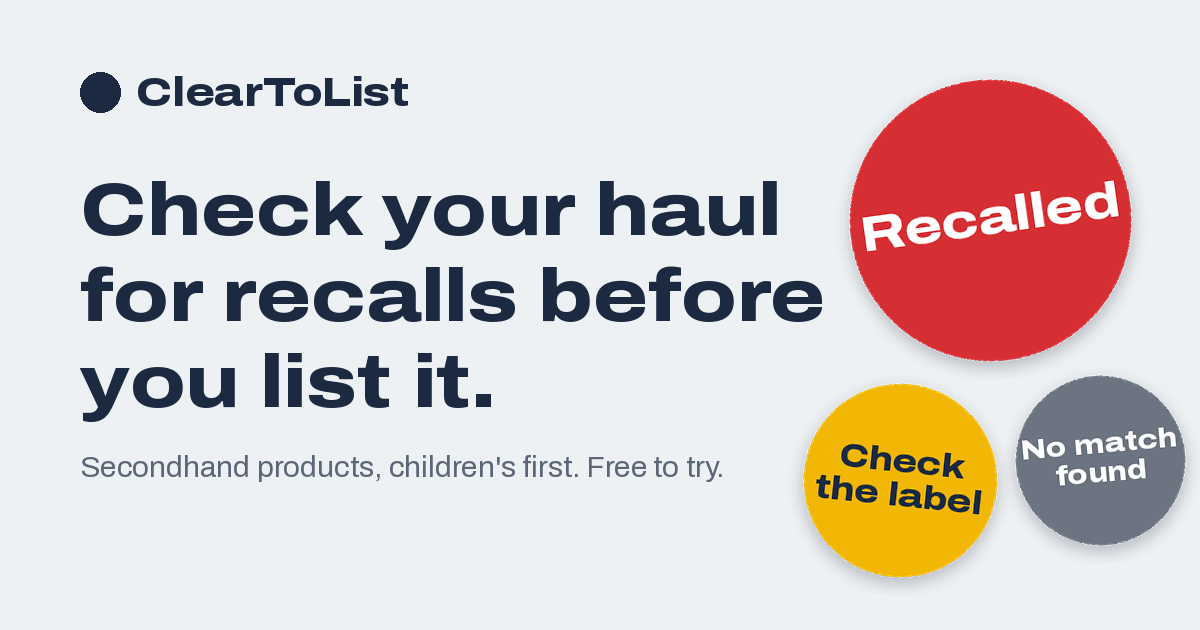
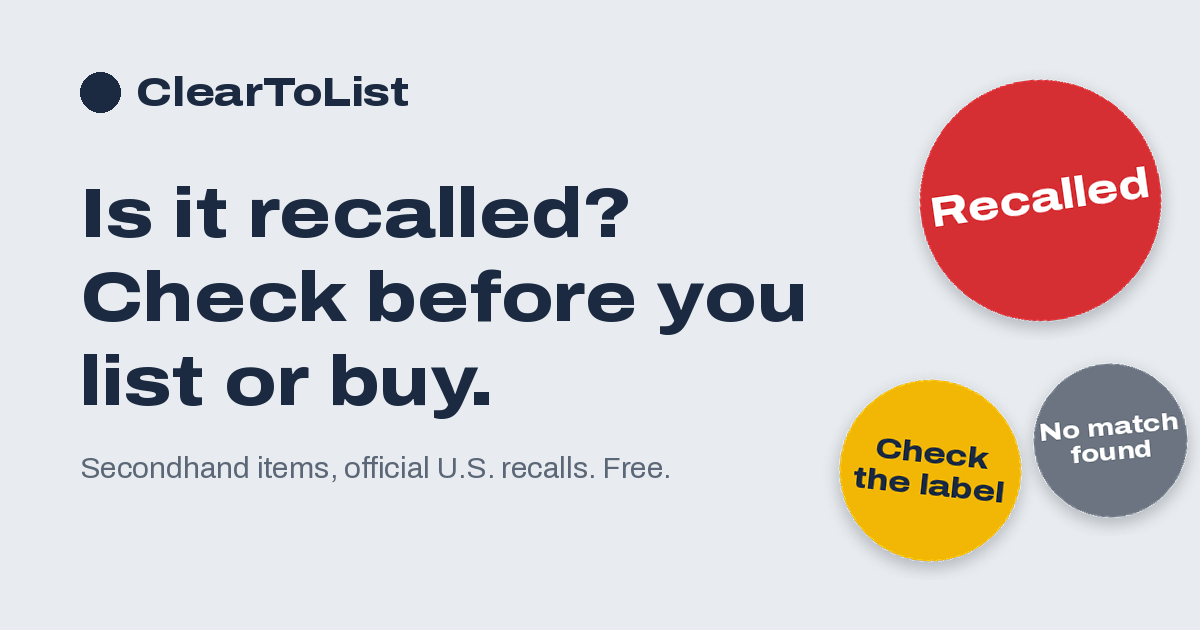
Page title, link previews and share image match the new headline
Recall share pages still swap in the recall's own title and description.

diff --git a/demo/static/index.html b/demo/static/index.html
@@ -3,22 +3,22 @@
 <head>
 <meta charset="utf-8">
 <meta name="viewport" content="width=device-width, initial-scale=1">
-<title>ClearToList: check your haul for recalls</title>
-<meta name="description" content="Check secondhand products against U.S. CPSC recalls before you list them, children's products first.">
+<title>ClearToList: Is it recalled? Check before you list or buy.</title>
+<meta name="description" content="Check secondhand items against official U.S. recalls before you list or buy. Free, with a photo.">
 <meta name="theme-color" content="#E8ECF0">
 <link rel="canonical" href="https://cleartolist.onrender.com/">
 <meta property="og:type" content="website">
 <meta property="og:site_name" content="ClearToList">
-<meta property="og:title" content="ClearToList: check your haul for recalls">
-<meta property="og:description" content="Check secondhand products against U.S. CPSC recalls before you list them, children's products first. Free to try with a photo.">
+<meta property="og:title" content="ClearToList: Is it recalled? Check before you list or buy.">
+<meta property="og:description" content="Check secondhand items against official U.S. recalls before you list or buy. Free, with a photo.">
 <meta property="og:url" content="https://cleartolist.onrender.com/">
 <meta property="og:image" content="https://cleartolist.onrender.com/static/og.png">
 <meta property="og:image:width" content="1200">
 <meta property="og:image:height" content="630">
-<meta property="og:image:alt" content="ClearToList: three price-dot stickers reading Recalled, Check the label and No match found">
+<meta property="og:image:alt" content="Is it recalled? Check before you list or buy. Three price-dot stickers: Recalled, Check the label, No match found.">
 <meta name="twitter:card" content="summary_large_image">
-<meta name="twitter:title" content="ClearToList: check your haul for recalls">
-<meta name="twitter:description" content="Check secondhand products against U.S. CPSC recalls before you list them, children's products first. Free to try with a photo.">
+<meta name="twitter:title" content="ClearToList: Is it recalled? Check before you list or buy.">
+<meta name="twitter:description" content="Check secondhand items against official U.S. recalls before you list or buy. Free, with a photo.">
 <meta name="twitter:image" content="https://cleartolist.onrender.com/static/og.png">
 <link rel="preload" href="/static/fonts/archivo-var.woff2" as="font" type="font/woff2" crossorigin>
 <link rel="stylesheet" href="/static/app.css">

diff --git a/demo/server.py b/demo/server.py
@@ -318,6 +318,8 @@ def index(ref: Annotated[str | None, Query(max_length=40)] = None) -> str:
     return (ROOT / "static" / "index.html").read_text()
 
 
+SITE_TITLE = "ClearToList: Is it recalled? Check before you list or buy."
+SITE_DESC = "Check secondhand items against official U.S. recalls before you list or buy. Free, with a photo."
 PUBLIC_URL = os.environ.get("CTL_PUBLIC_URL", "https://cleartolist.onrender.com").rstrip("/")
 
 
@@ -353,10 +355,9 @@ def recall_page(recall_id: Annotated[int, Path(ge=1, le=10_000_000)],
     desc = html.escape(f"{d['hazard_tag']} hazard. {d['what_to_do'] or 'See the CPSC notice.'} "
                        "Check your own items with ClearToList.", quote=True)
     url = f"{PUBLIC_URL}/recall/{recall_id}"
-    for old, new in [("<title>ClearToList: check your haul for recalls</title>", f"<title>{title}</title>"),
-                     ('content="ClearToList: check your haul for recalls"', f'content="{title}"'),
-                     ('content="Check secondhand products against U.S. CPSC recalls before you list them, children\'s '
-                      'products first. Free to try with a photo."', f'content="{desc}"'),
+    for old, new in [(f"<title>{SITE_TITLE}</title>", f"<title>{title}</title>"),
+                     (f'content="{SITE_TITLE}"', f'content="{title}"'),
+                     (f'content="{SITE_DESC}"', f'content="{desc}"'),
                      (f'"{PUBLIC_URL}/"', f'"{url}"')]:
         page = page.replace(old, new)
     return HTMLResponse(page)

diff --git a/tests/test_hosted.py b/tests/test_hosted.py
@@ -602,3 +602,11 @@ def test_no_ip_address_or_user_agent_is_stored(client):
     dump = repr(server.STORE.counts("2000-01-01")) + repr(server.STORE.all())
     for leak in ("203.0.113.77", "SpecialAgent", "FingerprintMe", "tracker.example"):
         assert leak not in dump
+
+
+def test_site_title_and_preview_match_the_headline(client):
+    r = client.get("/")
+    assert "<title>ClearToList: Is it recalled? Check before you list or buy.</title>" in r.text
+    assert 'property="og:title" content="ClearToList: Is it recalled? Check before you list or buy."' in r.text
+    shared = client.get("/recall/101").text
+    assert "<title>Recalled: Acme Strollers</title>" in shared and "Is it recalled? Check before" not in shared.split("og:image")[0]
